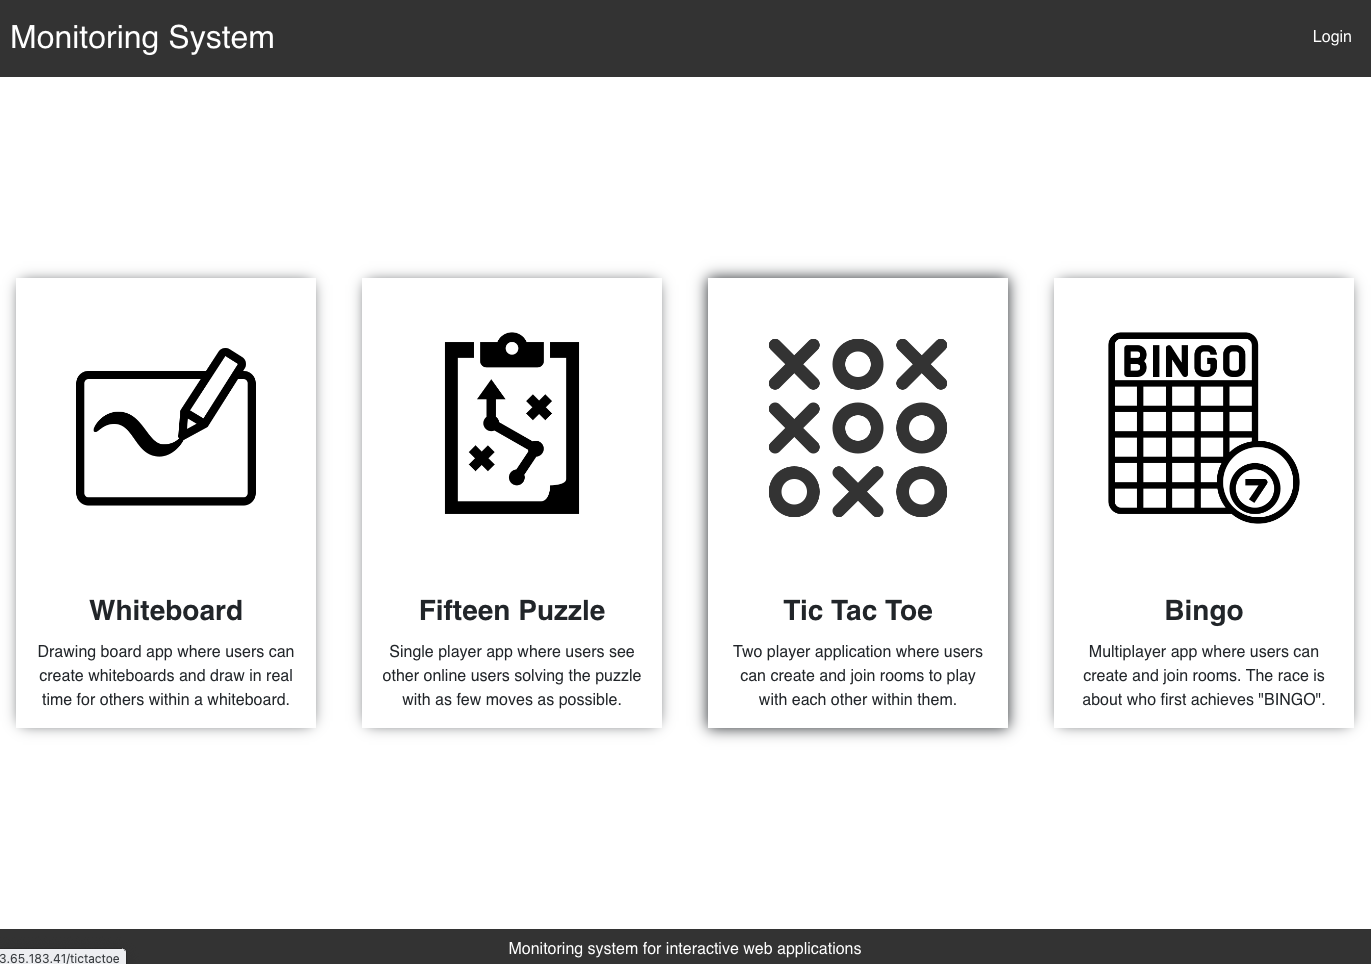
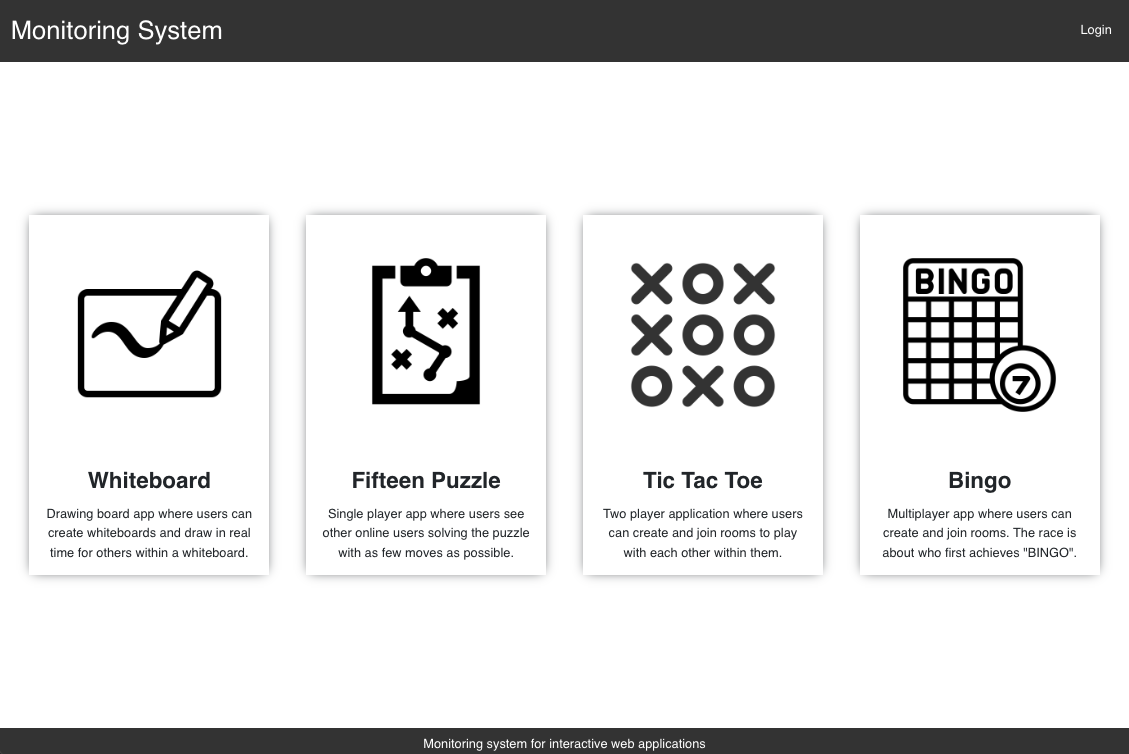
Move main content to HomePage component and add a project to projects section

diff --git a/src/utils/consts.ts b/src/utils/consts.ts
@@ -1,10 +1,12 @@
 import MonitoringSystem from 'assets/images/monitoring-system.png'
+import JobBoard from 'assets/images/job-board.png'
 
 export const PATHS = {
   home: '/',
   about: '#about',
   experience: '#experience',
-  projects: '#projects'
+  projects: '#projects',
+  archive: '/archive'
 }
 
 export const EXTERNAL_SITES = {
@@ -57,6 +59,23 @@ export const PROJECTS = [
     title: 'Monitoring System',
     desc: 'Web app that allows users to interact within a chosen game. Authenticated users can observe the taken actions of users in a game and communicate with them through a chat in real-time and more.',
     techStack: ['Django Channels', 'Redis', 'React', 'SASS', 'PostgreSQL', 'Docker', 'AWS']
+  },
+  {
+    api: 'https://api.github.com/repos/kamilkaminski01/job-board',
+    img: JobBoard,
+    link: 'https://github.com/kamilkaminski01/job-board',
+    repo: 'https://github.com/kamilkaminski01/job-board',
+    title: 'Job Board',
+    desc: 'A recruitment platform aimed at the IT industry. It allows users to find a job and recruiters to advertise their job positions. Login with social authentication, apply and receive an email about successfully applying.',
+    techStack: [
+      'Django REST Framework',
+      'React',
+      'TypeScript',
+      'SASS',
+      'AWS SES',
+      'GitHub OAuth',
+      'Google OAuth 2.0'
+    ]
   }
 ]
 

diff --git a/src/components/organisms/Main/partials/sections/ProjectsSection/style.scss b/src/components/organisms/Main/partials/sections/ProjectsSection/style.scss
@@ -23,11 +23,16 @@
     .project__content {
       width: 80%;
 
-      .project__title {
-        @include tile__title;
+      .project__link {
+        display: flex;
+        width: fit-content;
 
-        &:hover {
-          @include tile__title--hover;
+        .project__title {
+          @include tile__title;
+
+          &:hover {
+            @include tile__title--hover;
+          }
         }
       }
 
@@ -66,6 +71,12 @@
       }
     }
 
+    &:hover {
+      .project__image {
+        border-color: $dark-slate;
+      }
+    }
+
     @include for-desktop {
       gap: 3%;
 
@@ -80,6 +91,29 @@
 
       .project__image {
         width: 12.5em;
+      }
+    }
+  }
+
+  .projects-section__archive {
+    display: flex;
+    align-items: center;
+    gap: 0.25em;
+    width: fit-content;
+    border-bottom: 1px solid transparent;
+    transition: gap ease-in-out 0.1s, border-bottom ease-in-out 0.1s;
+
+    span {
+      padding-bottom: 2px;
+      border-bottom: 1px solid transparent;
+      transition: border-color ease-in-out 0.1s;
+    }
+
+    &:hover {
+      gap: 0.75em;
+
+      span {
+        border-color: $green;
       }
     }
   }

diff --git a/src/App.tsx b/src/App.tsx
@@ -1,14 +1,16 @@
 import './App.scss'
-import Header from 'components/organisms/Header'
-import Main from 'components/organisms/Main'
+import HomePage from 'pages/HomePage'
+import { Route, Routes } from 'react-router-dom'
+import { PATHS } from 'utils/consts.ts'
+import ArchivePage from 'pages/ArchivePage'
 
 function App() {
   return (
     <div className="app">
-      <div className="main-content">
-        <Header />
-        <Main />
-      </div>
+      <Routes>
+        <Route path={PATHS.home} element={<HomePage />} />
+        <Route path={PATHS.archive} element={<ArchivePage />} />
+      </Routes>
     </div>
   )
 }

diff --git a/src/components/organisms/Main/partials/sections/ExperienceSection/index.tsx b/src/components/organisms/Main/partials/sections/ExperienceSection/index.tsx
@@ -16,7 +16,11 @@ const ExperienceSection = () => {
         <Tile key={index} className="experience-section__tile">
           <div className="experience__time-frame">{experience.timeFrame}</div>
           <div className="experience__content">
-            <Link to={experience.link} target="_blank" rel="noreferrer">
+            <Link
+              to={experience.link}
+              target="_blank"
+              rel="noreferrer"
+              className="experience__link">
               <h4 className="experience__title">
                 {experience.title} <LuArrowUpRight className="arrow-icon" />
               </h4>

diff --git a/src/components/organisms/Main/partials/sections/ProjectsSection/index.tsx b/src/components/organisms/Main/partials/sections/ProjectsSection/index.tsx
@@ -8,6 +8,8 @@ import { FaStar } from 'react-icons/fa'
 import { BiGitRepoForked } from 'react-icons/bi'
 import { RxEyeOpen } from 'react-icons/rx'
 import useProjects from 'hooks/useProjects.ts'
+import { GoArrowRight } from 'react-icons/go'
+import { PATHS } from 'utils/consts.ts'
 
 const ProjectsSection = () => {
   const isDesktop = useDesktop()
@@ -51,6 +53,9 @@ const ProjectsSection = () => {
           </div>
         </Tile>
       ))}
+      <Link to={PATHS.archive} className="projects-section__archive">
+        <span>View Full Project Archive</span> <GoArrowRight />
+      </Link>
     </section>
   )
 }

diff --git a/src/components/organisms/Main/partials/sections/ExperienceSection/style.scss b/src/components/organisms/Main/partials/sections/ExperienceSection/style.scss
@@ -29,11 +29,16 @@
     .experience__content {
       width: 80%;
 
-      .experience__title {
-        @include tile__title;
+      .experience__link {
+        display: flex;
+        width: fit-content;
 
-        &:hover {
-          @include tile__title--hover;
+        .experience__title {
+          @include tile__title;
+
+          &:hover {
+            @include tile__title--hover;
+          }
         }
       }
 

diff --git a/src/App.scss b/src/App.scss
@@ -5,27 +5,11 @@
 
   padding: 0 6em;
 
-  .main-content {
-    display: flex;
-    gap: 1em;
-    max-width: 1050px;
-
-    & > * {
-      flex-basis: 50%;
-    }
-
-    main {
-      @include for-desktop {
-        padding: 6em 0 0;
-      }
-    }
-  }
-
   @include for-desktop {
     margin: unset;
     padding: 5em 3em;
 
-    .main-content {
+    .home-page {
       flex-direction: column;
     }
   }

diff --git a/src/utils/mixins.scss b/src/utils/mixins.scss
@@ -40,12 +40,13 @@
     position: sticky;
     top: 0;
 
-    background-color: rgba(15, 23, 42, 0.9);
-    backdrop-filter: blur(3px);
+    background-color: rgba(15, 23, 42, 0.5);
+    backdrop-filter: blur(5px);
   }
 }
 
 @mixin tile__title {
+  width: fit-content;
   margin-top: -1.5px;
   font-weight: normal;
   transition: color ease-in-out 0.1s;

diff --git a/src/pages/HomePage/index.tsx b/src/pages/HomePage/index.tsx
@@ -1,0 +1,14 @@
+import './style.scss'
+import Header from 'components/organisms/Header'
+import Main from 'components/organisms/Main'
+
+const HomePage = () => {
+  return (
+    <div className="home-page">
+      <Header />
+      <Main />
+    </div>
+  )
+}
+
+export default HomePage

diff --git a/src/pages/HomePage/style.scss b/src/pages/HomePage/style.scss
@@ -1,0 +1,15 @@
+.home-page {
+  display: flex;
+  gap: 1em;
+  max-width: 1050px;
+
+  & > * {
+    flex-basis: 50%;
+  }
+
+  main {
+    @include for-desktop {
+      padding: 6em 0 0;
+    }
+  }
+}

diff --git a/src/pages/ArchivePage/index.tsx b/src/pages/ArchivePage/index.tsx
@@ -1,0 +1,7 @@
+import './style.scss'
+
+const ArchivePage = () => {
+  return <></>
+}
+
+export default ArchivePage
